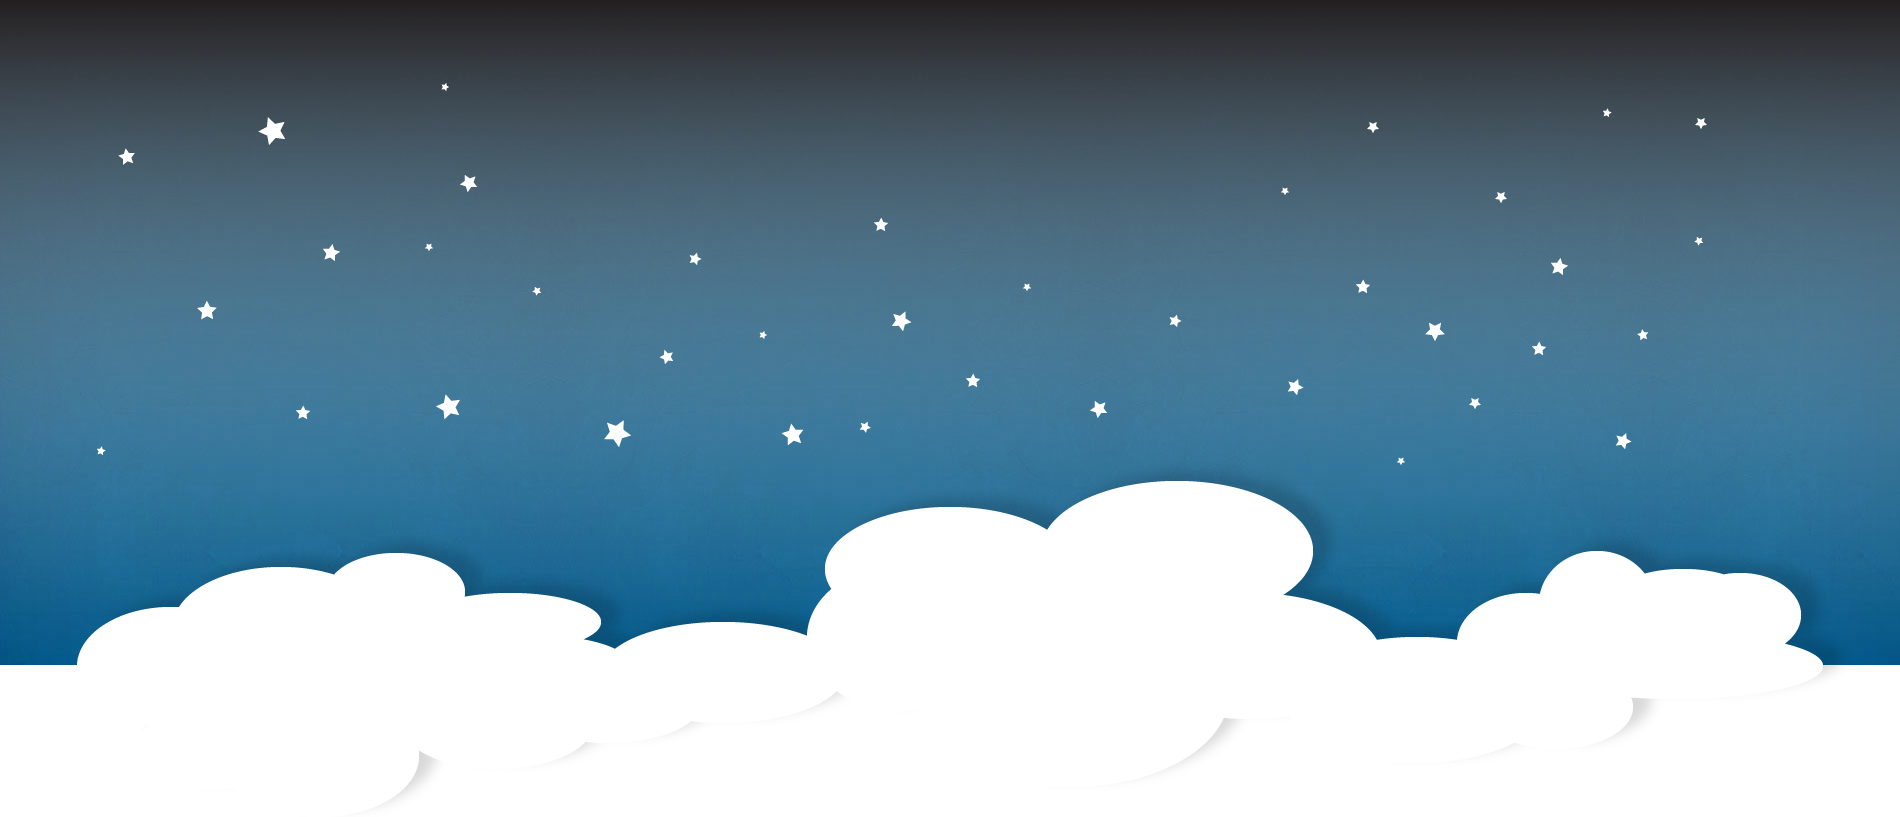
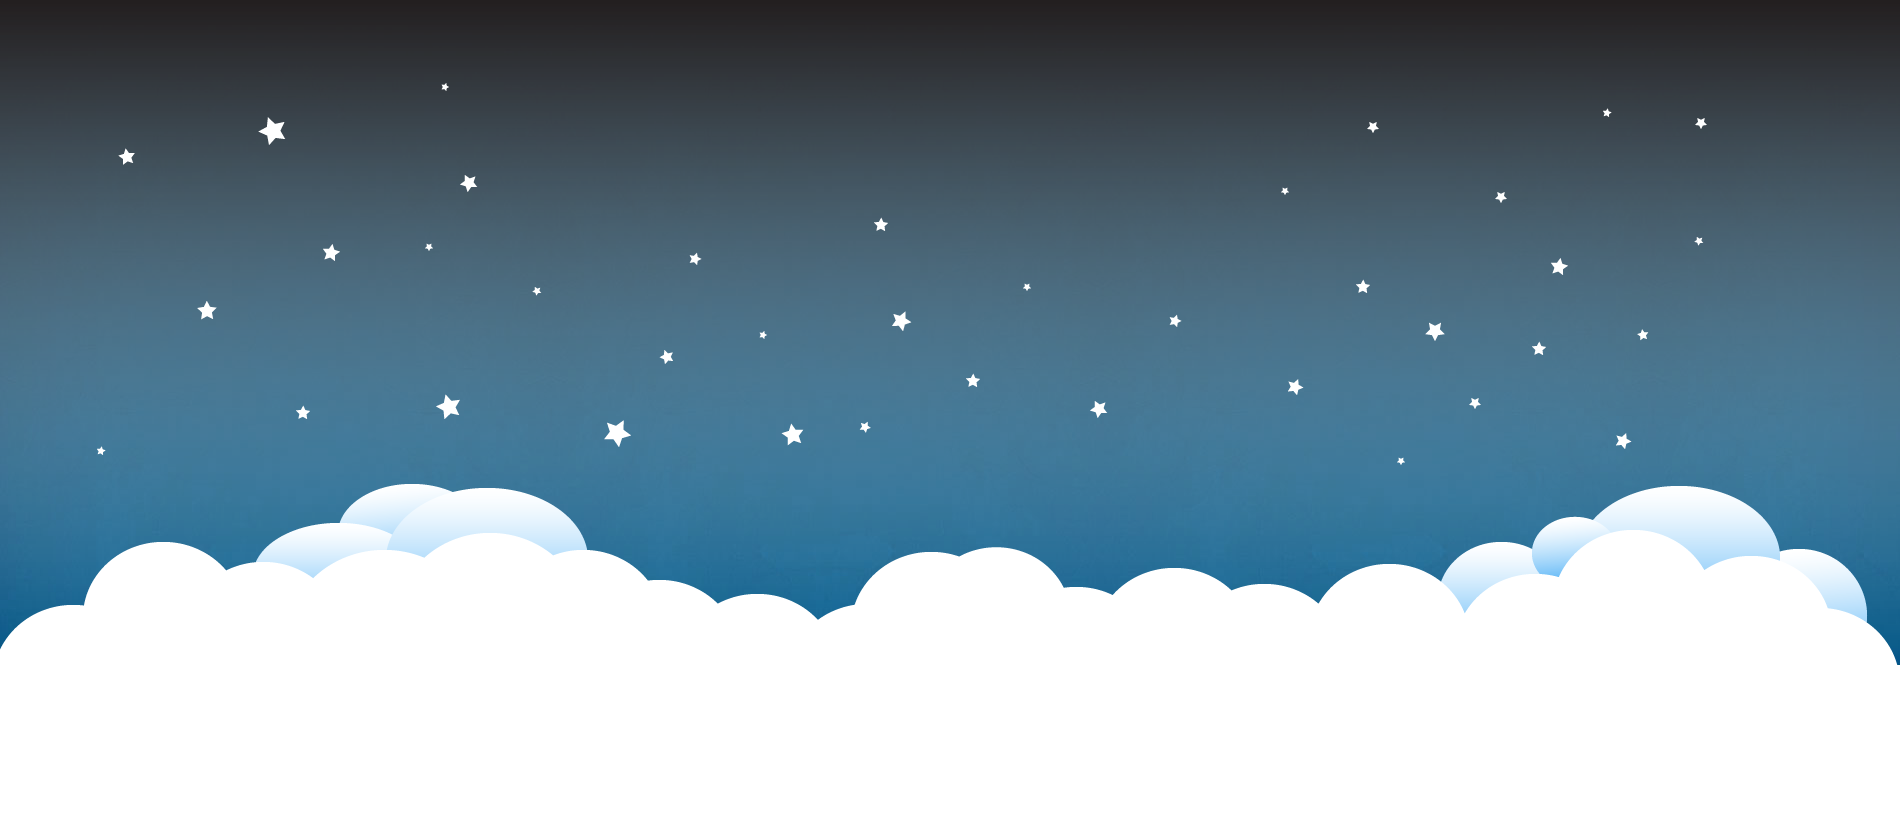
changed header bg

Changed region(s): [[0.0, 0.5814, 1.0, 0.8262], [0.8384, 0.8568, 0.8695, 0.8874], [0.2174, 0.918, 0.2484, 0.9486]]

diff --git a/app/assets/stylesheets/application.css b/app/assets/stylesheets/application.css
@@ -8,8 +8,7 @@
 
 
 body { 
-	background: url(/assets/mainbg.png) top center no-repeat,
-	url(/assets/lightbg.png);
+	background: url(/assets/mainbg.png) top center no-repeat
 }
 
 header {
